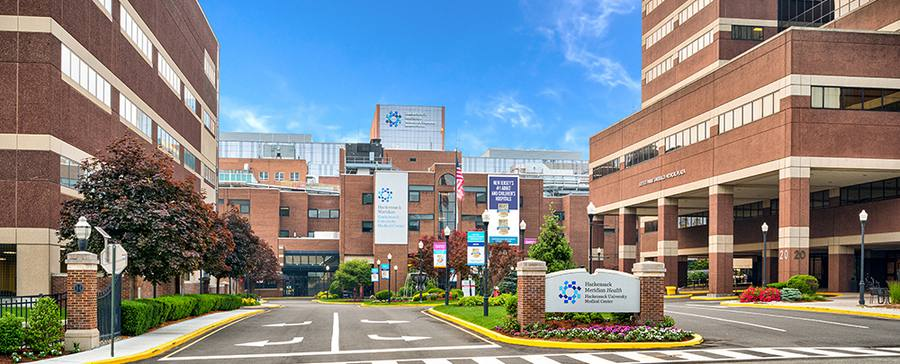
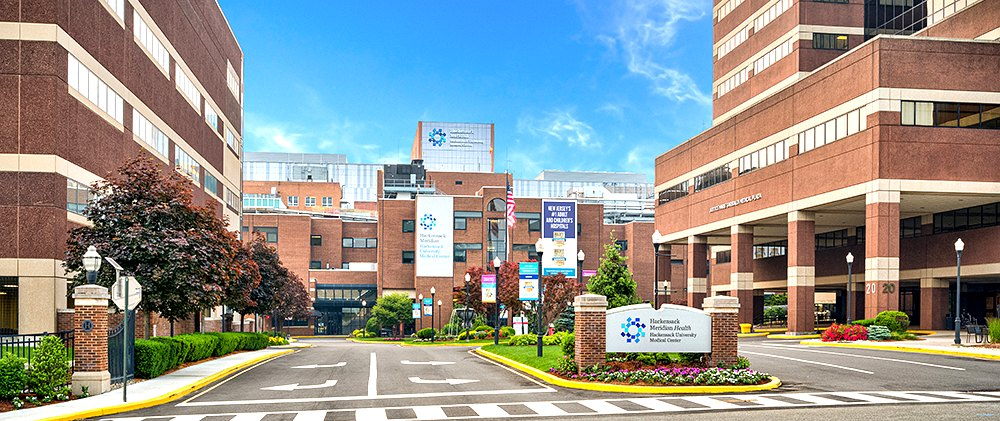
Add files via upload

diff --git a/index.html b/index.html
@@ -359,7 +359,7 @@
   }
   .home-greeting-photo{
     position:absolute; inset:0; z-index:-2;
-    background:url('./hero.jpg') center 38% / cover no-repeat;
+    background:url('./hero.jpg') 62% 55% / cover no-repeat;
   }
   .home-greeting-scrim{
     position:absolute; inset:0; z-index:-1;
@@ -367,10 +367,17 @@
        Legibility now comes from a soft radial pool behind the text block
        plus per-element text-shadow, rather than dimming the whole image. */
     background:
-      radial-gradient(110% 135% at 0% 66%, rgba(8,14,26,0.94) 0%, rgba(8,14,26,0.80) 32%, rgba(8,14,26,0.40) 58%, rgba(8,14,26,0) 82%),
-      linear-gradient(180deg, rgba(8,14,26,0.10) 0%, rgba(8,14,26,0.06) 45%, rgba(8,14,26,0.38) 100%);
+      radial-gradient(52% 110% at -10% 62%, rgba(8,14,26,0.55) 0%, rgba(8,14,26,0.30) 40%, rgba(8,14,26,0) 76%),
+      linear-gradient(180deg, rgba(8,14,26,0.04) 0%, rgba(8,14,26,0.02) 45%, rgba(8,14,26,0.26) 100%);
   }
-  .home-greeting-text{ position:relative; max-width:34ch; }
+  /* The text sits on its own soft gradient panel. A photo-wide scrim bright
+     enough to beat sunlit brick would dim the whole hospital; this keeps the
+     darkening exactly where the words are and fades out before the sign. */
+  .home-greeting-text{
+    position:relative; max-width:34ch;
+    background:linear-gradient(100deg, rgba(8,14,26,0.88) 0%, rgba(8,14,26,0.70) 45%, rgba(8,14,26,0.32) 78%, rgba(8,14,26,0) 100%);
+    padding:16px 40px 16px 20px; margin:-16px 0 -16px -20px; border-radius:0 22px 22px 0;
+  }
   .home-greeting-eyebrow{
     font-family:var(--sans); font-size:11.5px; font-weight:650; letter-spacing:.04em;
     color:rgba(255,255,255,0.82); margin-bottom:2px;
@@ -402,7 +409,7 @@
   .home-greeting-quote{
     position:relative; margin:0 0 13px 0; max-width:38ch;
     font-family:var(--serif); font-size:14px; font-style:italic; line-height:1.5;
-    color:#FFFFFF; text-shadow:0 1px 3px rgba(6,11,20,0.95), 0 2px 16px rgba(6,11,20,0.8);
+    color:#FFFFFF; text-shadow:0 1px 2px rgba(6,11,20,1), 0 1px 10px rgba(6,11,20,0.95), 0 2px 22px rgba(6,11,20,0.7);
   }
   @media (max-width:640px){
     .home-greeting{ padding:22px 18px 18px 18px; min-height:228px; }
